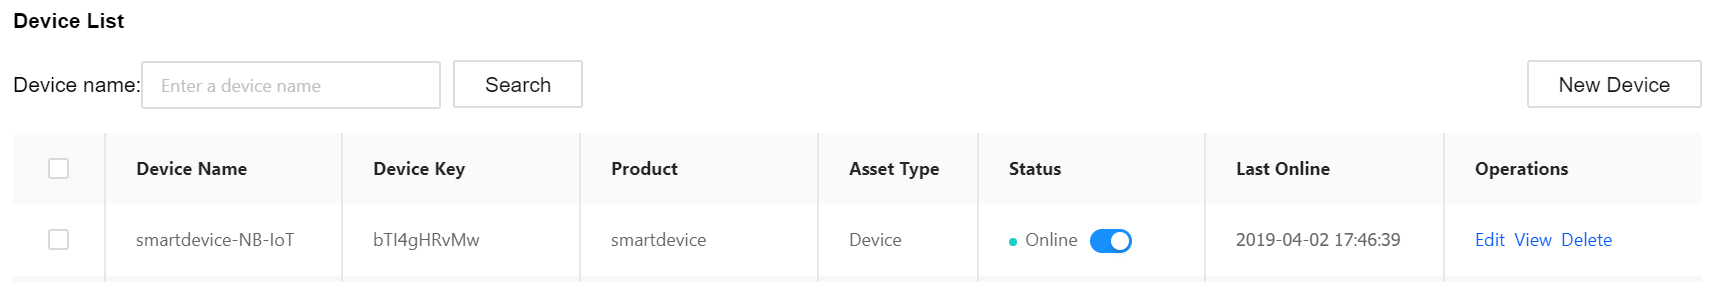
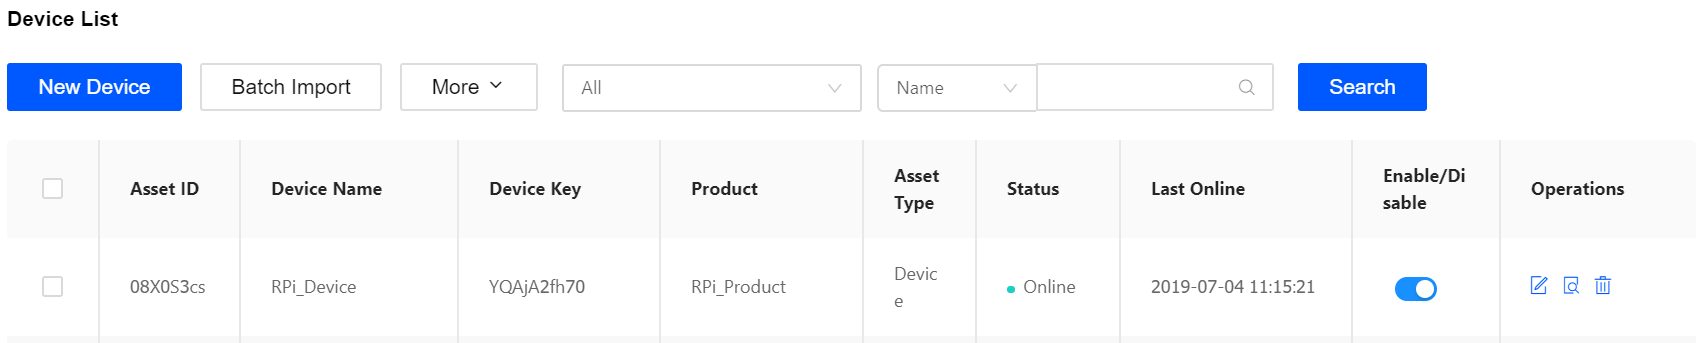
Update.

diff --git a/tutorial/connecting_device_rasberrypi/viewing_data.md b/tutorial/connecting_device_rasberrypi/viewing_data.md
@@ -5,8 +5,8 @@ After the device is connected and starts uploading data to EnOS Cloud, you can m
 ## Checking Device Status
 
 1. In the EnOS Console, click **Device Management > Device**。
-2. Locate the *smartdevice-NB-IoT* and *smartdevice* devices.
-3. Check the status of the devices. The status of the devices will change from *inactive* to *online*.
+2. Find the *RPi_Device* from the device list.
+3. Check the status of the device. The status of the devices will change from *Inactive* to *Online*.
 
 .. image:: media/device_status.png
 
@@ -16,13 +16,13 @@ The device data uploaded to EnOS Cloud can be viewed on the EnOS Console:
 
 1. Open the **Device Details** page, click **Measuring Points**.
 
-2. Locate the *Temperature* measuring point, click **View data**.
+2. Locate the *Temperature* measuring point, click **View Data**.
 
-3. Select a time range and view the device data in a chart or table. See the following example.
+3. View the measuring point real-time data on the **Data Insights** page. See the following example.
 
    .. image:: media/device_data.png
 
-With storage policy configured, the uploaded device data can be stored for further processing and analysis. For more information, see [Data Asset Management](/docs/data-asset/en/latest/data_asset_overview).
+With storage policy configured, the uploaded device data can be stored for further processing and analysis. For more information, see [Managing Time Series Data](/docs/data-asset/en/latest/howto/storage/index.html).
 
 ## Viewing Alert Records
 

diff --git a/tutorial/connecting_device_rasberrypi/connecting_devices.md b/tutorial/connecting_device_rasberrypi/connecting_devices.md
@@ -63,7 +63,7 @@ from message.upstream.status.SubDeviceLoginRequest import SubDeviceLoginRequest
 from core.MqttClient import MqttClient
 from message.upstream.topo.TopoAddRequest import TopoAddRequest
 from message.upstream.topo.SubDeviceInfo import SubDeviceInfo
-from message.upstream.tsl.measuringpointPostRequest import MeasurepointPostRequest
+from message.upstream.tsl.MeasurepointPostRequest import MeasurepointPostRequest
 from message.upstream.topo.TopoGetRequest import TopoGetRequest
 from message.upstream.topo.TopoDeleteRequest import TopoDeleteRequest
 from led import set_light, get_light
